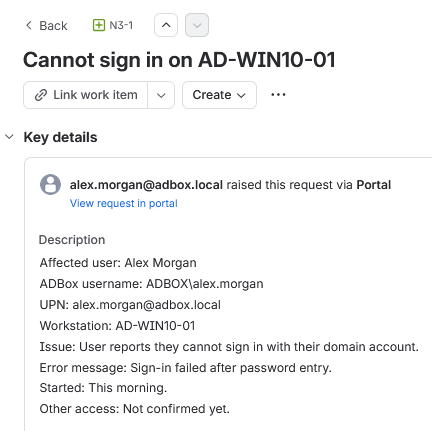
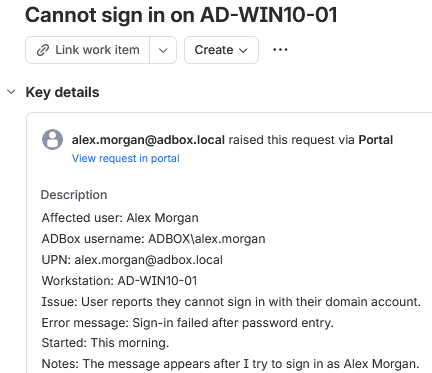
docs(n3): add remote desktop issue documentation and evidence

diff --git a/tickets/N3-3-remote-desktop.md b/tickets/N3-3-remote-desktop.md
@@ -1,47 +1,231 @@
-# N3-3 - Remote Desktop Issue
+# N3-3 // Remote Desktop Connection Fails
 
 ## Ticket Summary
 
-| Field | Value |
-| ----- | ----- |
-| Jira Key | N3-3 |
-| Summary | Remote Desktop connection fails to AD-WIN10-01 |
-| Request Type | |
-| Reporter | |
-| ADBox User | |
-| Workstation | AD-WIN10-01 |
-| Priority | |
-| Status | |
+This ticket was raised through the N3 Jira Service Management portal as part of the live queue simulation.
+
+| Field             | Value                                      |
+| ----------------- | ------------------------------------------ |
+| Jira Key          | N3-3                                       |
+| Request Type      | Remote Desktop issue                       |
+| Reporter          | `alex.morgan@adbox.local`                  |
+| Affected User     | Alex Morgan                                |
+| ADBox Account     | `ADBOX\alex.morgan`                        |
+| UPN               | `alex.morgan@adbox.local`                  |
+| Workstation       | `AD-WIN10-01`                              |
+| Target Device     | `AD-WIN10-01`                              |
+| Starting Priority | Medium                                     |
+| Starting Status   | To Do                                      |
+| Final Status      | Done                                       |
 
 ## Reported Issue
 
+Alex Morgan reported that Remote Desktop support could not connect to `AD-WIN10-01`.
 
+The ticket recorded the affected user, ADBox username, UPN, workstation, target device, reported Remote Desktop error, and a note that the workstation could still be used locally.
 
-## Triage Notes
+Figure 1 shows the ticket details captured from Jira.
 
+![Figure 1 - N3 ticket details](../screenshots/tickets/N3-3-remote-desktop/01-n3-ticket-details.png)
 
+*Figure 1 - Jira ticket details for the reported Remote Desktop connection issue.*
 
-## Technical Checks
+## Triage
 
+The ticket was treated as a medium-priority remote support issue because the workstation was still usable locally, but support could not connect remotely.
 
+| Area     | Value                                                              |
+| -------- | ------------------------------------------------------------------ |
+| Impact   | Remote support could not connect to `AD-WIN10-01`.                 |
+| Urgency  | Medium, local workstation use was still available.                 |
+| Priority | Medium                                                             |
+| Queue    | Network and endpoint                                               |
+| Owner    | Erwin Magielda                                                     |
 
-## Evidence
+## Investigation
 
+Remote Desktop Connection was tested from the support side against `AD-WIN10-01`.
 
+The connection failed with the standard Remote Desktop message stating that the remote computer could not be reached or remote access was not enabled.
 
-## Resolution
+Figure 2 shows the Remote Desktop connection failure.
 
+![Figure 2 - Remote desktop failure](../screenshots/tickets/N3-3-remote-desktop/02-remote-desktop-failure.png)
 
+*Figure 2 - Remote Desktop failing to connect to `AD-WIN10-01`.*
 
-## Customer Update
+Because Remote Desktop configuration is a workstation-level setting, the check was performed from an administrator session on `AD-WIN10-01`.
 
+Figure 3 shows the administrator account available on the workstation sign-in screen.
 
+![Figure 3 - Administrator account login](../screenshots/tickets/N3-3-remote-desktop/03-administrator-account-login.png)
 
-## Closure Notes
+*Figure 3 - Administrator account used for the workstation-level configuration check.*
 
+Remote Desktop was checked in Windows Settings and was found disabled.
 
+Figure 4 shows the disabled Remote Desktop setting.
 
-## Related KB
+![Figure 4 - Remote desktop disabled](../screenshots/tickets/N3-3-remote-desktop/04-remote-desktop-disabled.png)
 
+*Figure 4 - Remote Desktop disabled on `AD-WIN10-01`.*
 
+PowerShell was also used to confirm the same setting from the registry.
 
+```powershell
+Get-ItemProperty -Path "HKLM:\SYSTEM\CurrentControlSet\Control\Terminal Server" |
+Select-Object fDenyTSConnections
+```
+
+| Part                                  | Purpose                                                   |
+| ------------------------------------- | --------------------------------------------------------- |
+| `Get-ItemProperty`                    | Reads a registry path or object property.                 |
+| `HKLM:\SYSTEM\...\Terminal Server`   | Targets the Windows Remote Desktop configuration key.     |
+| `Select-Object fDenyTSConnections`    | Shows the setting that controls whether RDP is denied.    |
+
+The value `fDenyTSConnections = 1` confirmed that Remote Desktop connections were denied.
+
+Figure 5 shows the PowerShell check before the fix.
+
+![Figure 5 - Deny connections one](../screenshots/tickets/N3-3-remote-desktop/05-deny-connections-1.png)
+
+*Figure 5 - PowerShell confirming that Remote Desktop connections were denied.*
+
+## Finding
+
+The issue was caused by Remote Desktop being disabled on `AD-WIN10-01`.
+
+| Check                    | Result                                                  |
+| ------------------------ | ------------------------------------------------------- |
+| RDP connection test      | Remote Desktop could not connect to `AD-WIN10-01`.      |
+| Windows Settings         | Remote Desktop was disabled.                            |
+| PowerShell check         | `fDenyTSConnections = 1`.                                |
+| Root cause               | Remote Desktop connections were denied on the workstation. |
+
+## Resolution Applied
+
+Remote Desktop was enabled from an administrator session on `AD-WIN10-01`.
+
+This was the primary support action because the issue was a workstation Remote Desktop configuration fault, not an Alex Morgan account permission issue.
+
+Figure 6 shows the Remote Desktop enablement confirmation dialog.
+
+![Figure 6 - Enable rdp dialog](../screenshots/tickets/N3-3-remote-desktop/06-enable-rdp-dialog.png)
+
+*Figure 6 - Windows confirmation dialog for enabling Remote Desktop.*
+
+Figure 7 shows Remote Desktop enabled after the change.
+
+![Figure 7 - Remote desktop enabled](../screenshots/tickets/N3-3-remote-desktop/07-remote-desktop-enabled.png)
+
+*Figure 7 - Remote Desktop enabled on `AD-WIN10-01`.*
+
+## PowerShell Validation
+
+PowerShell was used again after the GUI fix to confirm that Remote Desktop connections were allowed.
+
+```powershell
+Get-ItemProperty -Path "HKLM:\SYSTEM\CurrentControlSet\Control\Terminal Server" |
+Select-Object fDenyTSConnections
+```
+
+The value changed to `fDenyTSConnections = 0`, confirming that Remote Desktop was enabled.
+
+Figure 8 shows the post-fix PowerShell validation.
+
+![Figure 8 - Deny connections two](../screenshots/tickets/N3-3-remote-desktop/08-deny-connections-2.png)
+
+*Figure 8 - PowerShell confirming that Remote Desktop connections were allowed after the fix.*
+
+## Client Validation
+
+Remote Desktop Connection was tested again from the support side.
+
+After Remote Desktop was enabled, the connection reached the Windows session handoff prompt for `ADBOX\Administrator`.
+
+Figure 9 shows the session disconnect warning displayed before the administrator RDP session opened.
+
+![Figure 9 - Session disconnect warning](../screenshots/tickets/N3-3-remote-desktop/09-session-disconnect-warning.png)
+
+*Figure 9 - Windows warning that the local session would be disconnected for the administrator RDP session.*
+
+The final validation was completed inside the remote session.
+
+```cmd
+hostname
+whoami
+query user
+```
+
+| Check        | Result                  |
+| ------------ | ----------------------- |
+| `hostname`   | `AD-WIN10-01`           |
+| `whoami`     | `adbox\administrator`   |
+| `query user` | Administrator active on `rdp-tcp#2`. |
+
+The successful Remote Desktop validation used `ADBOX\Administrator` because this ticket concerned the workstation's Remote Desktop configuration, not Alex Morgan's permission to start an RDP session.
+
+Figure 10 shows the confirmed administrator RDP session.
+
+![Figure 10 - Admin session confirmed](../screenshots/tickets/N3-3-remote-desktop/10-admin-session-confirmed.png)
+
+*Figure 10 - RDP session confirmed on `AD-WIN10-01` as `adbox\administrator`.*
+
+## Alternative Methods
+
+The same Remote Desktop configuration issue could also be resolved through other valid administrative methods.
+
+| Method            | Action                                                                                     | Use                                                       |
+| ----------------- | ------------------------------------------------------------------------------------------ | --------------------------------------------------------- |
+| Windows Settings  | Enable Remote Desktop from `Settings -> System -> Remote Desktop`.                         | Primary method used in this ticket.                       |
+| PowerShell        | Set `fDenyTSConnections` to `0` and enable the Remote Desktop firewall group.               | Repeatable command-line method for workstation fixes.     |
+| System Properties | Enable Remote Desktop from the classic remote settings panel.                              | Useful on older Windows support workflows.                |
+
+PowerShell can be used as an equivalent command-line method.
+
+```powershell
+Set-ItemProperty -Path "HKLM:\SYSTEM\CurrentControlSet\Control\Terminal Server" -Name fDenyTSConnections -Value 0
+Enable-NetFirewallRule -DisplayGroup "Remote Desktop"
+```
+
+| Part                            | Purpose                                                   |
+| ------------------------------- | --------------------------------------------------------- |
+| `Set-ItemProperty`              | Changes a registry value.                                 |
+| `fDenyTSConnections`            | Controls whether Remote Desktop connections are denied.   |
+| `-Value 0`                      | Allows Remote Desktop connections.                        |
+| `Enable-NetFirewallRule`        | Enables Windows Firewall rules.                           |
+| `-DisplayGroup "Remote Desktop"` | Targets the Remote Desktop firewall rule group.          |
+
+## Jira Notes
+
+An internal note was added to the ticket to record the technical finding, fix, and validation.
+
+Figure 11 shows the internal note.
+
+![Figure 11 - Ticket internal note](../screenshots/tickets/N3-3-remote-desktop/11-ticket-internal-note.png)
+
+*Figure 11 - Internal note recording the Remote Desktop check, fix, and validation.*
+
+A customer-facing reply was sent to explain the fix in plain language.
+
+Figure 12 shows the customer reply.
+
+![Figure 12 - Ticket customer reply](../screenshots/tickets/N3-3-remote-desktop/12-ticket-customer-reply.png)
+
+*Figure 12 - Customer reply confirming that Remote Desktop support can now connect.*
+
+## Closure
+
+The ticket was moved to `Done` after Remote Desktop was enabled, PowerShell confirmed that connections were allowed, the administrator RDP session was validated, and the customer was updated.
+
+Figure 13 shows the final Jira state.
+
+![Figure 13 - Ticket done state](../screenshots/tickets/N3-3-remote-desktop/13-n3-done-state.png)
+
+*Figure 13 - N3-3 closed after Remote Desktop connectivity was restored.*
+
+## Result
+
+N3-3 was resolved by identifying that Remote Desktop was disabled on `AD-WIN10-01`.
+
+The connection failure was reproduced from the support side, the disabled state was confirmed through Windows Settings and PowerShell, Remote Desktop was enabled from an administrator session, PowerShell confirmed that `fDenyTSConnections` changed from `1` to `0`, an administrator RDP session to `AD-WIN10-01` was validated, the Jira ticket was updated internally, the customer was informed, and the ticket was closed.
